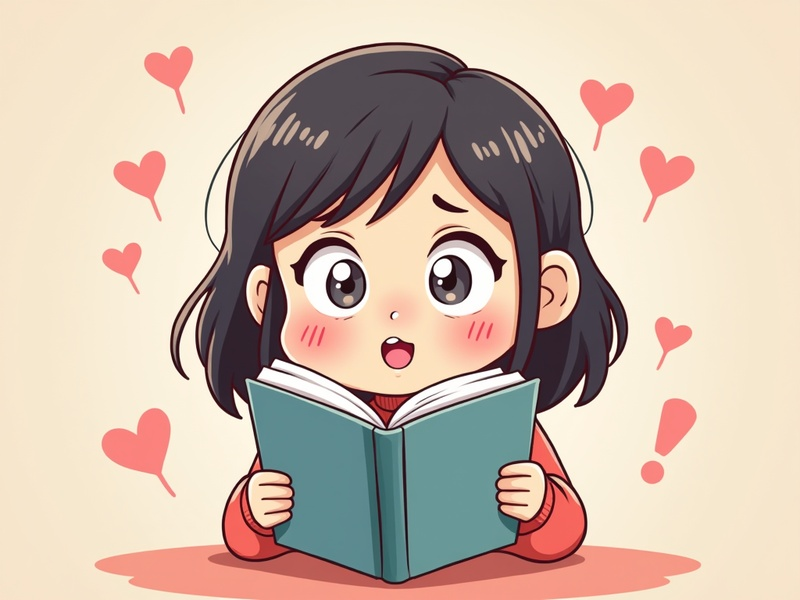
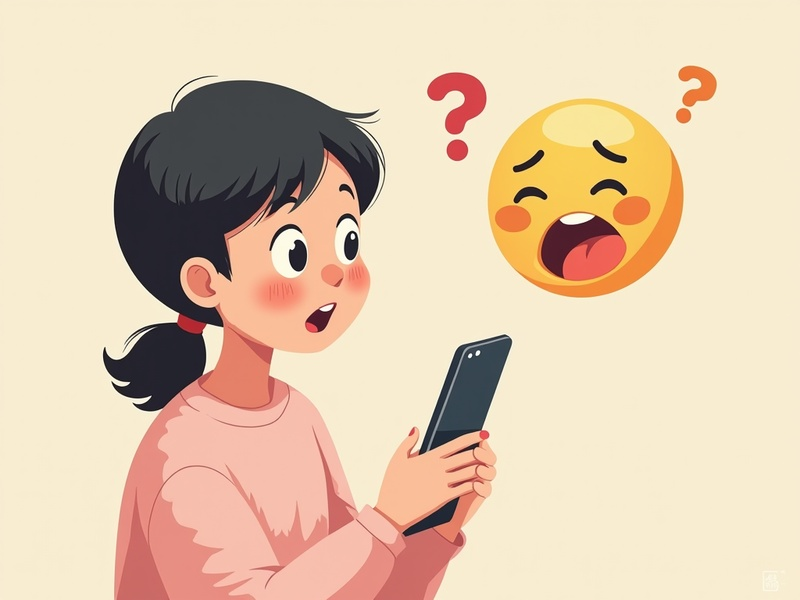
feat: category grid 底圖 12% 淡 + desc 黑字 + 18+ age gate + sidebar 篇數 fix + emoji 調整

diff --git a/src/app/category/[slug]/page.tsx b/src/app/category/[slug]/page.tsx
@@ -27,7 +27,7 @@ const SLUG_TO_DB: Record<string, string> = {
 };
 
 const CAT_INFO: Record<string, { icon: string; name: string; desc: string }> = {
-  'dating-life': { icon: '💑', name: '戀愛日常', desc: '拍拖大小事、甜蜜日常、相處之道' },
+  'dating-life': { icon: '💞', name: '戀愛日常', desc: '拍拖大小事、甜蜜日常、相處之道' },
   crush: { icon: '💕', name: '暗戀表白', desc: '唔敢表白？曖昧緊？一齊研究' },
   breakup: { icon: '💔', name: '分手復合', desc: '失戀療癒、復合建議、點樣放低' },
   marriage: { icon: '💍', name: '婚姻關係', desc: '夫妻相處、婆媳問題、育兒壓力' },
@@ -69,6 +69,10 @@ export default function CategoryPage() {
   const [posts, setPosts] = useState<Post[]>([]);
   const [loading, setLoading] = useState(true);
   const [mobileMenuOpen, setMobileMenuOpen] = useState(false);
+  const [ageVerified, setAgeVerified] = useState<boolean>(() => {
+    if (typeof window === 'undefined') return false;
+    try { return sessionStorage.getItem('hearten_18plus') === '1'; } catch { return false; }
+  });
 
   useEffect(() => {
     if (!dbCategory) return;
@@ -91,6 +95,42 @@ export default function CategoryPage() {
             <div className="flex items-center justify-center h-64 text-hearten-muted">呢個話題唔存在</div>
           </main>
           <RightSidebar />
+        </div>
+      </div>
+    );
+  }
+
+  // 18+ 年齡確認（一知半解分類）
+  if (slug === 'bedroom' && !ageVerified) {
+    return (
+      <div className="min-h-screen bg-hearten-bg">
+        <Header onMenuToggle={() => setMobileMenuOpen(v => !v)} />
+        <div className="fixed inset-0 z-50 flex items-center justify-center bg-black/80">
+          <div className="bg-hearten-card border border-hearten-border rounded-2xl p-8 max-w-md w-full mx-4 text-center">
+            <div className="text-6xl mb-4">🔞</div>
+            <h2 className="text-xl font-bold text-hearten-text mb-3">18+ 內容提示</h2>
+            <p className="text-hearten-muted mb-4 leading-relaxed">
+              本頁可能含有成人內容，只適合年滿 18 歲人士瀏覽。
+            </p>
+            <p className="text-hearten-text font-semibold mb-6">你是否已年滿 18 歲？</p>
+            <div className="flex flex-col sm:flex-row gap-3 justify-center">
+              <button
+                onClick={() => {
+                  try { sessionStorage.setItem('hearten_18plus', '1'); } catch {}
+                  setAgeVerified(true);
+                }}
+                className="px-6 py-3 rounded-xl bg-hearten-rose text-white font-medium hover:bg-hearten-rose-light transition-colors"
+              >
+                是，進入本頁
+              </button>
+              <button
+                onClick={() => router.push('/')}
+                className="px-6 py-3 rounded-xl border border-hearten-border text-hearten-muted hover:text-hearten-text transition-colors font-medium"
+              >
+                否，離開
+              </button>
+            </div>
+          </div>
         </div>
       </div>
     );

diff --git a/src/components/CategoryGrid.tsx b/src/components/CategoryGrid.tsx
@@ -4,7 +4,7 @@ import { useRouter } from 'next/navigation';
 import { useState, useEffect } from 'react';
 
 const categories = [
-  { icon: '💑', name: '戀愛日常', desc: '拍拖大小事、甜蜜日常、相處之道', color: 'dating-life' },
+  { icon: '💞', name: '戀愛日常', desc: '拍拖大小事、甜蜜日常、相處之道', color: 'dating-life' },
   { icon: '💕', name: '暗戀表白', desc: '唔敢表白？曖昧緊？一齊研究', color: 'crush' },
   { icon: '💔', name: '分手復合', desc: '失戀療癒、復合建議、點樣放低', color: 'breakup' },
   { icon: '💍', name: '婚姻關係', desc: '夫妻相處、婆媳問題、育兒壓力', color: 'marriage' },
@@ -67,19 +67,19 @@ export default function CategoryGrid() {
           `}
         >
           {/* 圖片底圖 25% 透明 */}
-          <img src={`/categories/${cat.color}.jpg`} alt="" className="absolute inset-0 z-0 w-full h-full object-cover opacity-25" />
+          <img src={`/categories/${cat.color}.jpg`} alt="" className="absolute inset-0 z-0 w-full h-full object-cover opacity-[0.12]" />
 
           {/* Gradient overlay ::before */}
           <span className="absolute inset-0 z-[1] bg-[linear-gradient(180deg,transparent_10%,rgba(0,0,0,0.12)_100%)] light:bg-[linear-gradient(180deg,transparent_10%,rgba(255,255,255,0.3)_100%)]" />
 
           {/* Content above overlay */}
-          <span className="relative z-[2] text-[40px] mb-[10px] leading-none">
+          <span className="relative z-[2] text-[32px] mb-[10px] leading-none">
             {cat.icon}
           </span>
           <span className="relative z-[2] text-[16px] font-bold text-hearten-text mb-[3px]">
             {cat.name}
           </span>
-          <span className="relative z-[2] text-sm text-hearten-muted mb-[6px] leading-[1.4]">
+          <span className="relative z-[2] text-sm text-black mb-[6px] leading-[1.4]">
             {cat.desc}
           </span>
           <span className="relative z-[2] flex items-center gap-[6px] text-xs text-hearten-muted">

diff --git a/src/lib/db.ts b/src/lib/db.ts
@@ -195,7 +195,7 @@ export const posts = {
   async create(userId: string, title: string, body: string, category: string, categoryId: string, images: string[] = []): Promise<Post | null> {
     const supabase = createClient();
     const preview = body.slice(0, 120) + (body.length > 120 ? '...' : '');
-    const catIcon = ({ 'dating-life':'💑',crush:'💕',breakup:'💔',marriage:'💍',lgbtq:'🌈',treehole:'🌳',tarot:'🃏',ziwei:'⭐',work:'💼',school:'🎓',family:'👨👩👧',dating:'📋',bedroom:'🔞' } as Record<string,string>)[categoryId] || '💬';
+    const catIcon = ({ 'dating-life':'💞',crush:'💕',breakup:'💔',marriage:'💍',lgbtq:'🌈',treehole:'🌳',tarot:'🃏',ziwei:'⭐',work:'💼',school:'🎓',family:'👨👩👧',dating:'📋',bedroom:'🔞' } as Record<string,string>)[categoryId] || '💬';
     const slug = generateSlug(title);
 
     const { data, error } = await supabase.from('posts').insert({

diff --git a/src/app/api/sidebar/route.ts b/src/app/api/sidebar/route.ts
@@ -65,11 +65,19 @@ export async function GET() {
     const now = new Date();
     const todayStart = new Date(now.getFullYear(), now.getMonth(), now.getDate()).toISOString();
 
+    // db category_id → URL slug（db 用短 id：work/school/dating，同 URL slug 唔同）
+    const DB_TO_SLUG: Record<string, string> = {
+      work: 'work-love',
+      school: 'school-love',
+      dating: 'dating-kit',
+    };
+
     for (const p of posts) {
-      const cid = p.category_id as string;
-      if (categoryStats[cid]) {
-        categoryStats[cid].total++;
-        if ((p.created_at as string) >= todayStart) categoryStats[cid].today++;
+      const cid = (p.category_id as string) || '';
+      const slug = DB_TO_SLUG[cid] || cid;
+      if (categoryStats[slug]) {
+        categoryStats[slug].total++;
+        if ((p.created_at as string) >= todayStart) categoryStats[slug].today++;
       }
     }
 

diff --git a/src/app/api/admin/posts/route.ts b/src/app/api/admin/posts/route.ts
@@ -48,7 +48,7 @@ export async function POST(request: NextRequest) {
     }
 
     const preview = body.slice(0, 120) + (body.length > 120 ? '...' : '');
-    const catIcon = ({ 'dating-life':'💑',crush:'💕',breakup:'💔',marriage:'💍',lgbtq:'🌈',treehole:'🌳',tarot:'🃏',ziwei:'⭐',work:'💼',school:'🎓',family:'👨👩👧',dating:'📋',bedroom:'🔞' } as Record<string,string>)[category_id] || '💬';
+    const catIcon = ({ 'dating-life':'💞',crush:'💕',breakup:'💔',marriage:'💍',lgbtq:'🌈',treehole:'🌳',tarot:'🃏',ziwei:'⭐',work:'💼',school:'🎓',family:'👨👩👧',dating:'📋',bedroom:'🔞' } as Record<string,string>)[category_id] || '💬';
     const slug = generateSlug(title);
 
     const data = await supabaseAdmin('/rest/v1/posts', 'POST', {

diff --git a/src/components/LeftSidebar.tsx b/src/components/LeftSidebar.tsx
@@ -4,7 +4,7 @@ import { useRouter, usePathname } from 'next/navigation';
 import { useState, useEffect } from 'react';
 
 const categories: { label: string; badge?: string; href: string; catId?: string }[] = [
-  { label: '💑 戀愛日常', href: '/category/dating-life', catId: 'dating-life' },
+  { label: '💞 戀愛日常', href: '/category/dating-life', catId: 'dating-life' },
   { label: '💕 暗戀表白', href: '/category/crush', catId: 'crush' },
   { label: '💔 分手復合', href: '/category/breakup', catId: 'breakup' },
   { label: '💍 婚姻關係', href: '/category/marriage', catId: 'marriage' },

diff --git a/src/app/write/page.tsx b/src/app/write/page.tsx
@@ -29,7 +29,7 @@ function compressImage(file: File, maxWidth: number, quality: number): Promise<B
 }
 
 const CATEGORIES = [
-  { id: 'dating-life', icon: '💑', name: '戀愛日常' },
+  { id: 'dating-life', icon: '💞', name: '戀愛日常' },
   { id: 'crush', icon: '💕', name: '暗戀表白' },
   { id: 'breakup', icon: '💔', name: '分手復合' },
   { id: 'marriage', icon: '💍', name: '婚姻關係' },

diff --git a/src/app/admin/AdminContent.tsx b/src/app/admin/AdminContent.tsx
@@ -30,7 +30,7 @@ function timeAgo(dateStr: string): string {
 }
 
 const CATEGORIES = [
-  { id: 'dating-life', icon: '💑', name: '戀愛日常' },
+  { id: 'dating-life', icon: '💞', name: '戀愛日常' },
   { id: 'crush', icon: '💕', name: '暗戀表白' },
   { id: 'breakup', icon: '💔', name: '分手復合' },
   { id: 'marriage', icon: '💍', name: '婚姻關係' },
